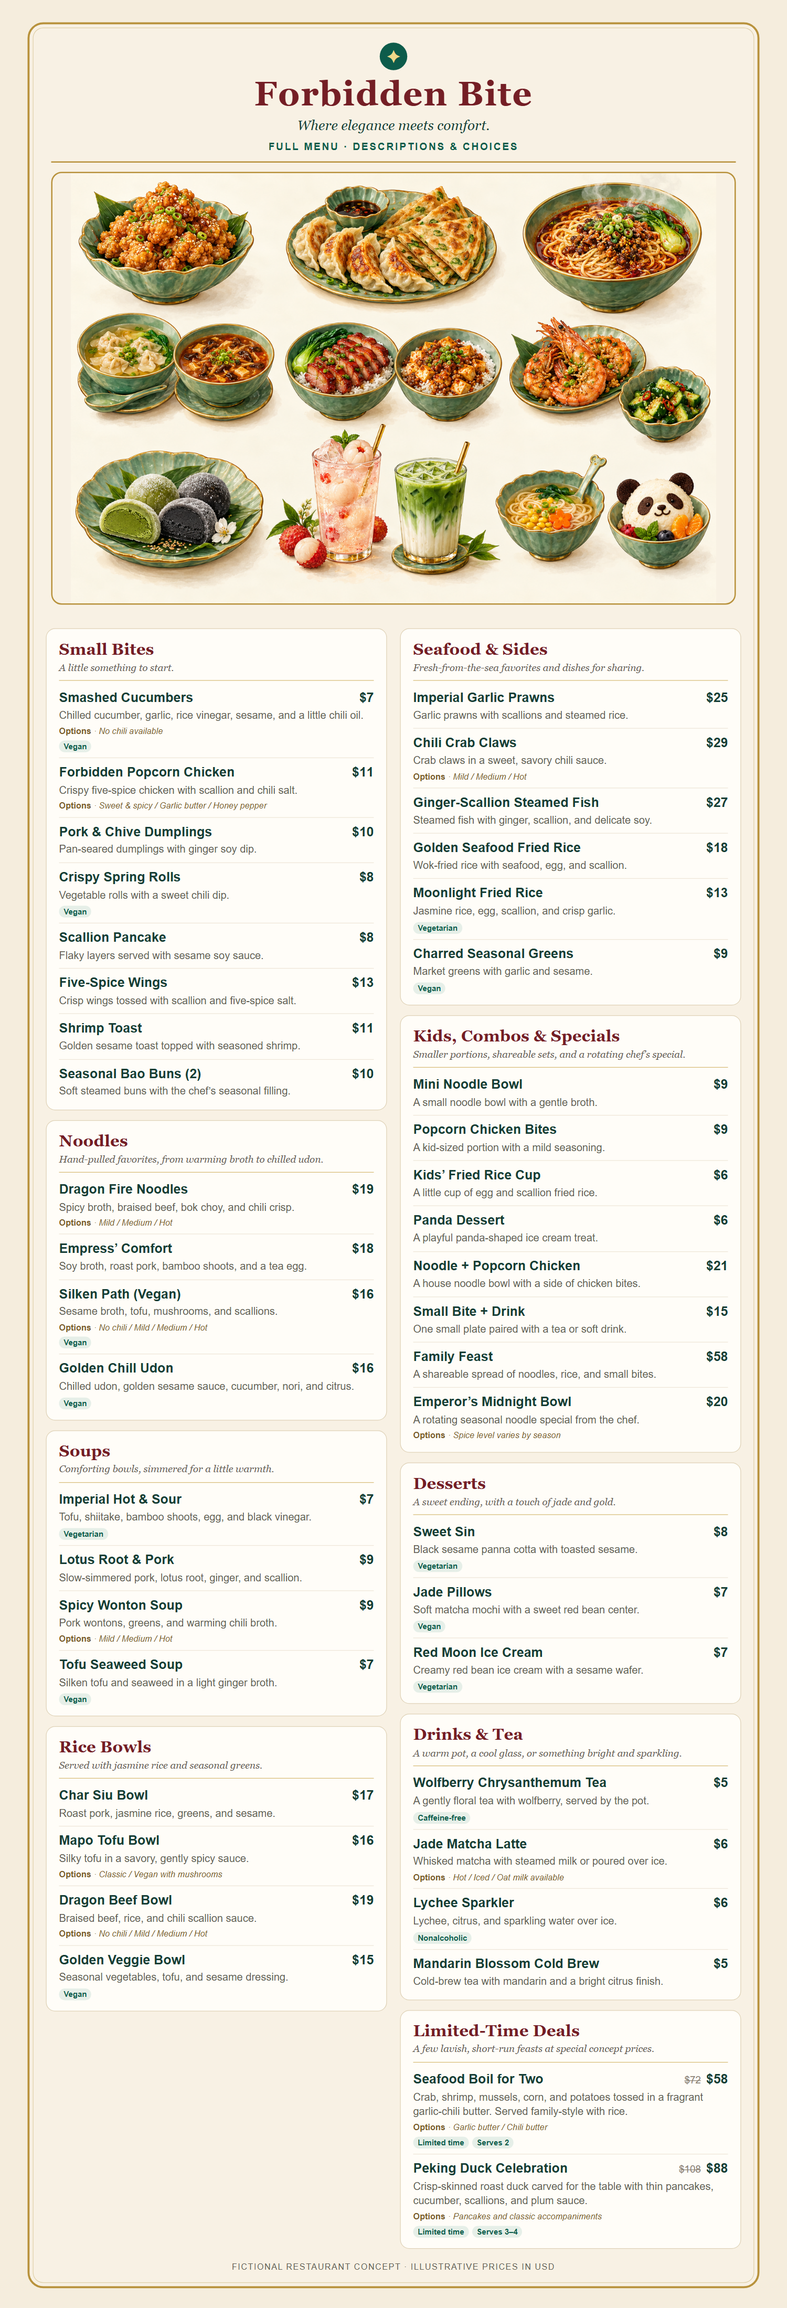
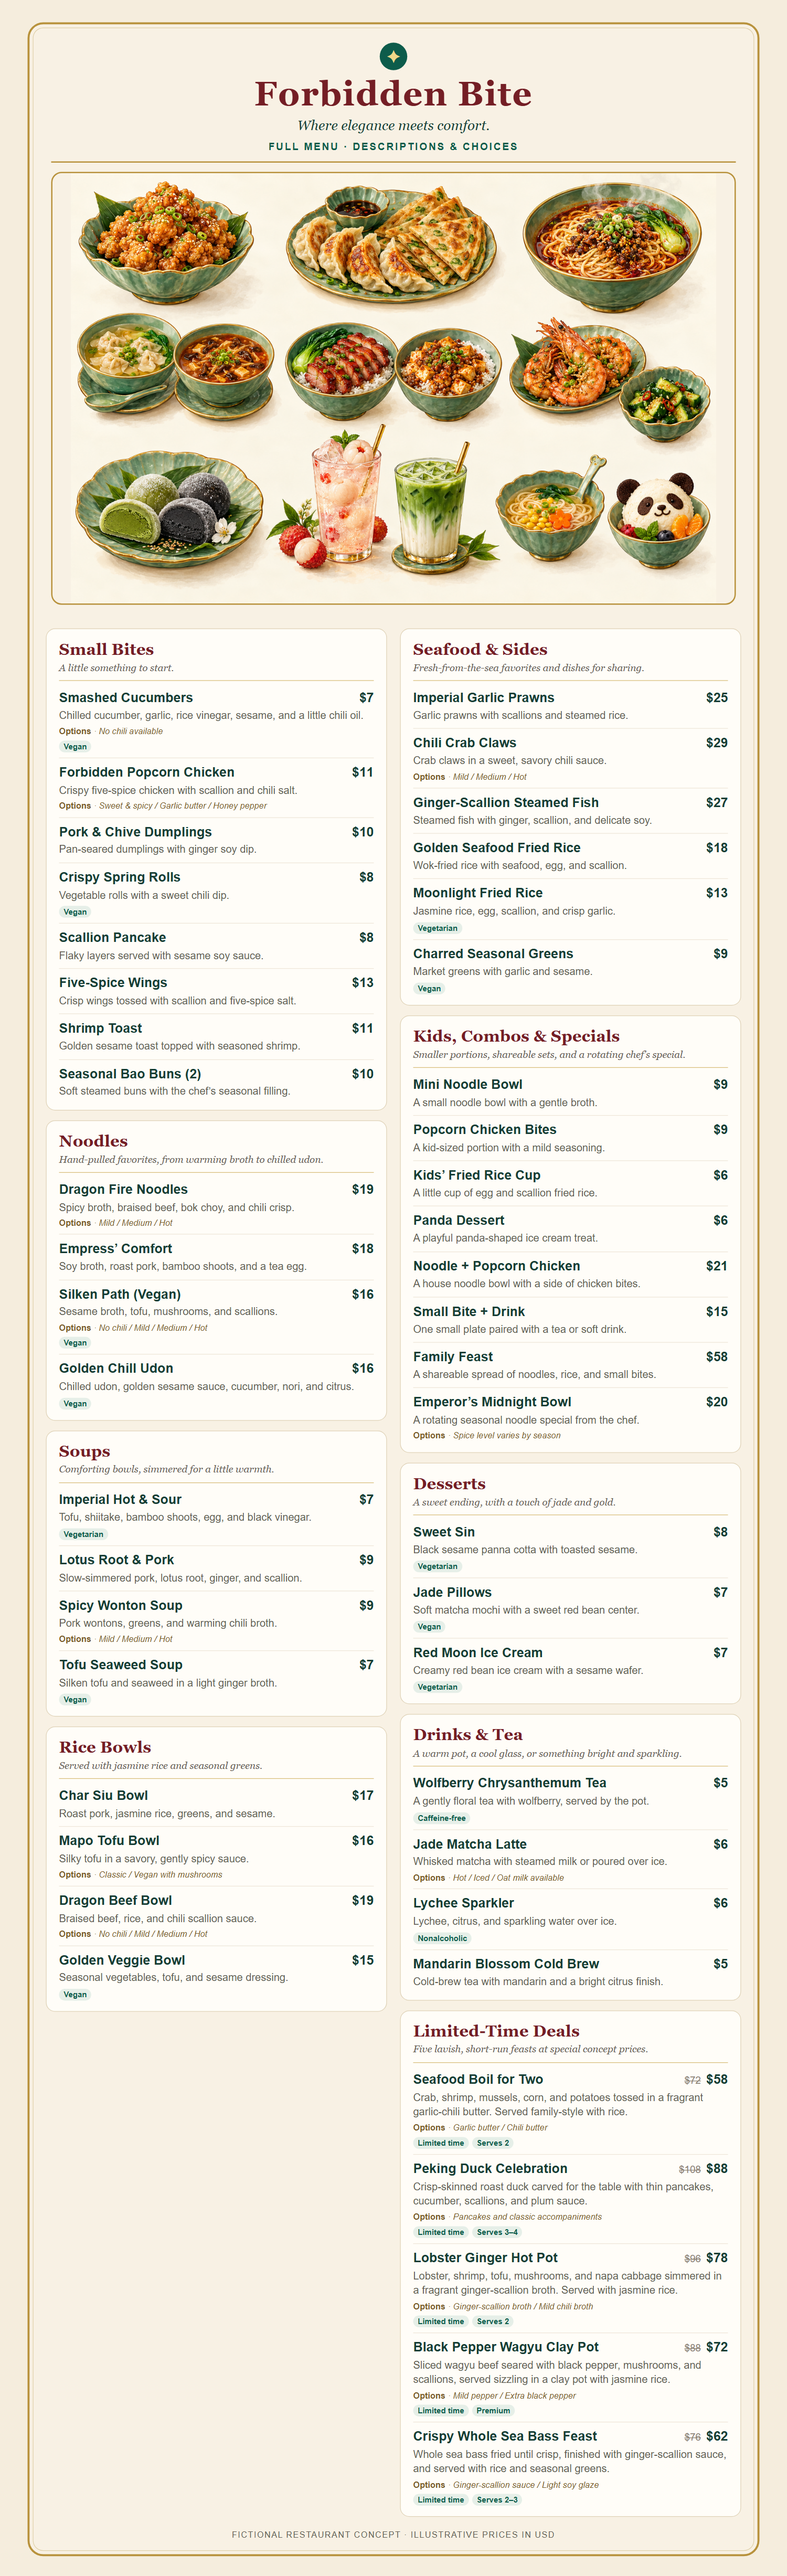
Expand limited-time premium menu deals

diff --git a/projects/restaurant.html b/projects/restaurant.html
@@ -48,8 +48,8 @@
         <p class="hero-copy">Chinese flavors, warm hospitality, and a little imagination — where comfort meets a touch of elegance.</p>
         <span class="badge">An imagined restaurant &amp; menu</span>
         <div class="actions" aria-label="Menu resources">
-          <a class="button" href="/assets/forbidden_bite/menu.png?v=limited-time-specials-1" target="_blank" rel="noopener">View picture menu</a>
-          <a class="button secondary" href="/assets/forbidden_bite/menu2.png?v=limited-time-specials-1" target="_blank" rel="noopener">View full menu</a>
+          <a class="button" href="/assets/forbidden_bite/menu.png?v=limited-time-specials-2" target="_blank" rel="noopener">View picture menu</a>
+          <a class="button secondary" href="/assets/forbidden_bite/menu2.png?v=limited-time-specials-2" target="_blank" rel="noopener">View full menu</a>
           <a class="button secondary" href="#limited-time-deals">See limited-time deals</a>
           <a class="button secondary" href="/assets/forbidden_bite_qr.png" download>Download QR code</a>
         </div>
@@ -63,18 +63,18 @@
       <div><p>We love the contrast of chili oil over steaming noodles, the crunch of five-spice chicken, and a calming cup of chrysanthemum tea. Each idea balances rich and refreshing, bold and gentle, with a family-friendly spirit.</p><p class="notice"><strong>Concept note:</strong> Forbidden Bite is a fictional creative concept. Menu items and imagery are illustrative; this page does not represent an operating restaurant or accept orders.</p></div>
     </section>
     <section class="deals" id="limited-time-deals" aria-labelledby="deals-title">
-      <div class="section-head"><div><p class="section-label">Limited-time offers · shareable feasts</p><h2 id="deals-title" class="section-heading">Specials worth gathering for</h2></div><p>Two premium table feasts at special concept prices.</p></div>
+      <div class="section-head"><div><p class="section-label">Limited-time offers · shareable feasts</p><h2 id="deals-title" class="section-heading">Specials worth gathering for</h2></div><p>Five premium dishes at special concept prices.</p></div>
       <div id="deal-grid" class="deal-grid" aria-live="polite"><p>Loading limited-time offers…</p></div>
     </section>
     <section class="menu-section" aria-labelledby="menu-title">
       <div class="section-head"><div><p class="section-label">Full menu · ingredients, flavor notes &amp; choices</p><h2 id="menu-title" class="section-heading">Explore the menu</h2></div><p>Dish descriptions and customization options.</p></div>
       <div id="menu-grid" class="grid" aria-live="polite"><p>Loading the menu…</p></div>
-      <noscript><p>Please open the <a href="/assets/forbidden_bite/menu2.png?v=limited-time-specials-1">full menu image</a> to see all menu options.</p></noscript>
+      <noscript><p>Please open the <a href="/assets/forbidden_bite/menu2.png?v=limited-time-specials-2">full menu image</a> to see all menu options.</p></noscript>
     </section>
     <section class="experience" aria-labelledby="experience-title"><div><p class="section-label">The experience</p><h2 id="experience-title">Comfort, with a golden touch</h2><p>Jade and gold accents, welcoming tables, and a curated tea list shape the atmosphere. The goal is simple: memorable food, a relaxed welcome, and something for everyone to enjoy.</p></div><ul><li>Comforting classics and playful specials</li><li>Mini portions and family-friendly choices</li><li>Fresh, vivid flavors from first sip to sweet finish</li></ul></section>
     <section class="menu-preview" aria-labelledby="preview-title">
-      <figure class="preview-card"><a href="/assets/forbidden_bite/menu.png?v=limited-time-specials-1" target="_blank" rel="noopener" aria-label="Open the complete Forbidden Bite picture menu"><img src="/assets/forbidden_bite/menu.png?v=limited-time-specials-1" alt="Forbidden Bite picture menu showing the same dishes and prices as the full menu" loading="lazy"></a></figure>
-      <div class="preview-copy"><p class="section-label">Same dishes, two ways to browse</p><h2 id="preview-title">Picture menu &amp; full menu</h2><p>The picture menu is a quick visual list of dishes and prices. For more detail, use the full menu above: it describes ingredients and flavors and lists available choices. Names and prices match across both.</p><div class="actions"><a class="button" href="/assets/forbidden_bite/menu.png?v=limited-time-specials-1" target="_blank" rel="noopener">Open picture menu</a><a class="button" href="/assets/forbidden_bite/menu2.png?v=limited-time-specials-1" target="_blank" rel="noopener">Open full menu</a></div></div>
+      <figure class="preview-card"><a href="/assets/forbidden_bite/menu.png?v=limited-time-specials-2" target="_blank" rel="noopener" aria-label="Open the complete Forbidden Bite picture menu"><img src="/assets/forbidden_bite/menu.png?v=limited-time-specials-2" alt="Forbidden Bite picture menu showing the same dishes and prices as the full menu" loading="lazy"></a></figure>
+      <div class="preview-copy"><p class="section-label">Same dishes, two ways to browse</p><h2 id="preview-title">Picture menu &amp; full menu</h2><p>The picture menu is a quick visual list of dishes and prices. For more detail, use the full menu above: it describes ingredients and flavors and lists available choices. Names and prices match across both.</p><div class="actions"><a class="button" href="/assets/forbidden_bite/menu.png?v=limited-time-specials-2" target="_blank" rel="noopener">Open picture menu</a><a class="button" href="/assets/forbidden_bite/menu2.png?v=limited-time-specials-2" target="_blank" rel="noopener">Open full menu</a></div></div>
     </section>
     <section class="faq" aria-labelledby="faq-title">
       <p class="section-label">Questions &amp; answers</p><h2 id="faq-title" class="section-heading">Curious about Forbidden Bite?</h2>
